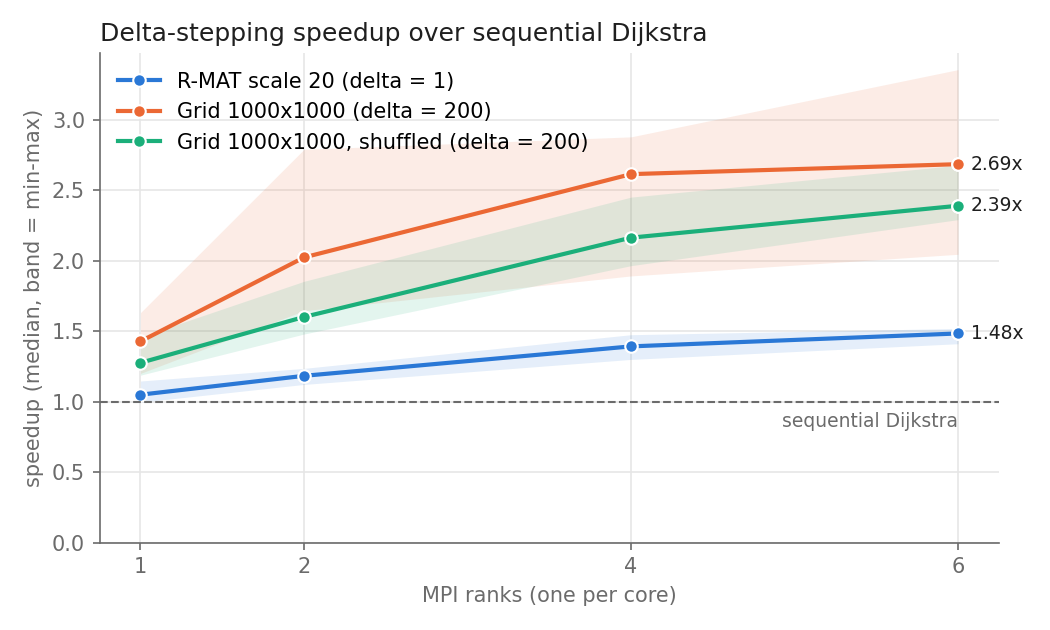
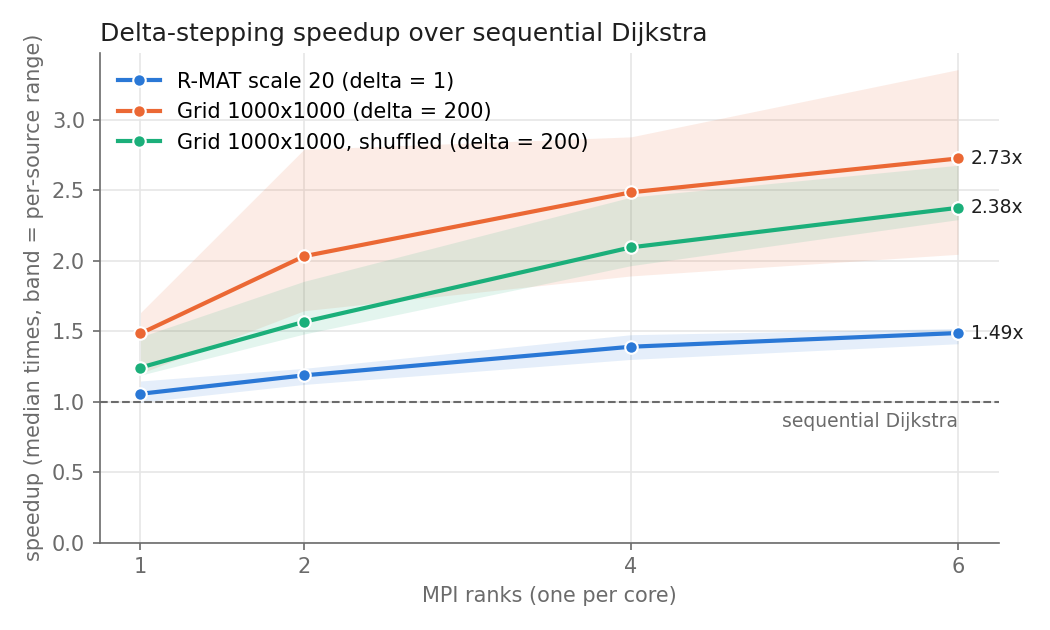
Report speedups as ratios of median times so the breakdown multiplies

diff --git a/experiments/plot.py b/experiments/plot.py
@@ -81,9 +81,12 @@ def plot_speedup():
             raise SystemExit(f"{name}.csv mixes deltas {sorted(deltas)}; use one per scaling file")
         meds, lo, hi = [], [], []
         for p in ranks:
-            # speedup per source (same source for both), then the spread
-            s = [seq[r["source"]] / float(r["seconds"]) for r in delta_rows(rows, ranks=p)]
-            meds.append(median(s)); lo.append(min(s)); hi.append(max(s))
+            # line: median sequential time / median delta time;
+            # band: spread of per-source speedups (same source for both)
+            runs = delta_rows(rows, ranks=p)
+            s = [seq[r["source"]] / float(r["seconds"]) for r in runs]
+            meds.append(median(seq.values()) / median(float(r["seconds"]) for r in runs))
+            lo.append(min(s)); hi.append(max(s))
         ax.fill_between(ranks, lo, hi, color=color, alpha=0.12, linewidth=0)
         ax.plot(ranks, meds, "-o", color=color, linewidth=2, markersize=6,
                 markeredgecolor="white", label=f"{label} (delta = {deltas.pop()})")
@@ -93,7 +96,7 @@ def plot_speedup():
                 ha="right", color=MUTED, fontsize=9)
     ax.set_xticks(ranks)
     style(ax, "Delta-stepping speedup over sequential Dijkstra",
-          "MPI ranks (one per core)", "speedup (median, band = min-max)")
+          "MPI ranks (one per core)", "speedup (median times, band = per-source range)")
     ax.set_ylim(bottom=0)
     ax.legend(frameon=False, loc="upper left")
     save(fig, "speedup.png")

diff --git a/README.md b/README.md
@@ -17,22 +17,22 @@ graph loading is excluded from both.
 
 | Graph | Nodes / directed edges | Sequential Dijkstra | Delta-stepping, 6 ranks | Speedup | Data sent between ranks |
 |---|---|---|---|---|---|
-| R-MAT scale 20 | 1,048,576 / 31.4M (646K reachable) | 0.85 s | 0.57 s | **1.48x** | 102 MB |
-| Grid 1000x1000, shuffled | 1,000,000 / 4.0M | 0.46 s | 0.19 s | **2.39x** | 66 MB |
-| Grid 1000x1000 | 1,000,000 / 4.0M | 0.185 s | 0.068 s | **2.69x** | 0.2 MB |
+| R-MAT scale 20 | 1,048,576 / 31.4M (646K reachable) | 0.85 s | 0.57 s | **1.49x** | 102 MB |
+| Grid 1000x1000, shuffled | 1,000,000 / 4.0M | 0.46 s | 0.19 s | **2.38x** | 66 MB |
+| Grid 1000x1000 | 1,000,000 / 4.0M | 0.185 s | 0.068 s | **2.73x** | 0.2 MB |
 
 ![Speedup over sequential Dijkstra](experiments/figures/speedup.png)
 
 **Where the speedup comes from.** Delta-stepping on a single rank is already
 faster than the heap-based Dijkstra, because bucket operations are cheaper than
 heap operations. The table splits the total into that algorithmic part and the
-part from adding cores:
+part from adding cores (all ratios of median times, so the columns multiply):
 
 | Graph | 1 rank vs sequential | 1 → 6 ranks | Total |
 |---|---|---|---|
-| R-MAT scale 20 | 1.05x | 1.41x | 1.48x |
-| Grid, shuffled | 1.28x | 1.92x | 2.39x |
-| Grid | 1.43x | 1.84x | 2.69x |
+| R-MAT scale 20 | 1.06x | 1.41x | 1.49x |
+| Grid, shuffled | 1.24x | 1.91x | 2.38x |
+| Grid | 1.48x | 1.84x | 2.73x |
 
 **Communication is what limits scaling.** Nodes are split into contiguous blocks
 by id. In the unshuffled grid, each node's neighbours have nearby ids and usually
@@ -58,7 +58,7 @@ implementations such as GAP do):
 - **R-MAT** is a small-world graph: its shortest paths are only a few hops long,
   so even Δ = 1 needs just ~190 phases, and each phase contains thousands of
   nodes to process in parallel. Larger Δ only adds wasted work: 73M relaxations
-  at Δ = 160 vs 31.4M at Δ = 1. Δ from 1 to 5 performs the same within noise;
+  at Δ = 160 vs 31.4M at Δ = 1 (6 ranks). Δ from 1 to 5 performs the same within noise;
   Δ = 1 was used. With integer weights, Δ = 1 is effectively a distributed
   version of Dial's bucket-queue algorithm.
 - **The grid** has paths about 1000 hops long. Δ = 10 needs about 9,800
@@ -126,8 +126,12 @@ mpirun -n 1 ./build/sssp_mpi --graph graphs/grid.csr --algo seq --source 0
 mpirun -n 6 ./build/sssp_mpi --graph graphs/rmat20.csr --algo partition-stats
 ```
 
+Without `--delta`, Δ defaults to the average edge weight; the Δ values used
+come from the sweep below.
+
 Benchmarks and plots (results go to `experiments/results/`, charts to
-`experiments/figures/`):
+`experiments/figures/`). `bench.sh` appends to an existing CSV, so delete the
+old one first to get a fresh result set:
 
 ```bash
 ./experiments/bench.sh graphs/rmat20.csr rmat20 "1" "1 2 4 6"
@@ -182,9 +186,7 @@ partitioned CSR input, delta-stepping with batched `Alltoallv` exchange,
 large generated graphs, verification against a sequential reference, and
 repeated, median-based measurements.
 
-## AI usage
-
-<!-- TODO(grantjlk): write this section — which parts you wrote, which parts were written with AI, and how you reviewed them. -->
+<!-- AI usage section goes here. TODO(grantjlk): write this section — which parts you wrote, which parts were written with AI, and how you reviewed them. -->
 
 ## Repository layout
 
